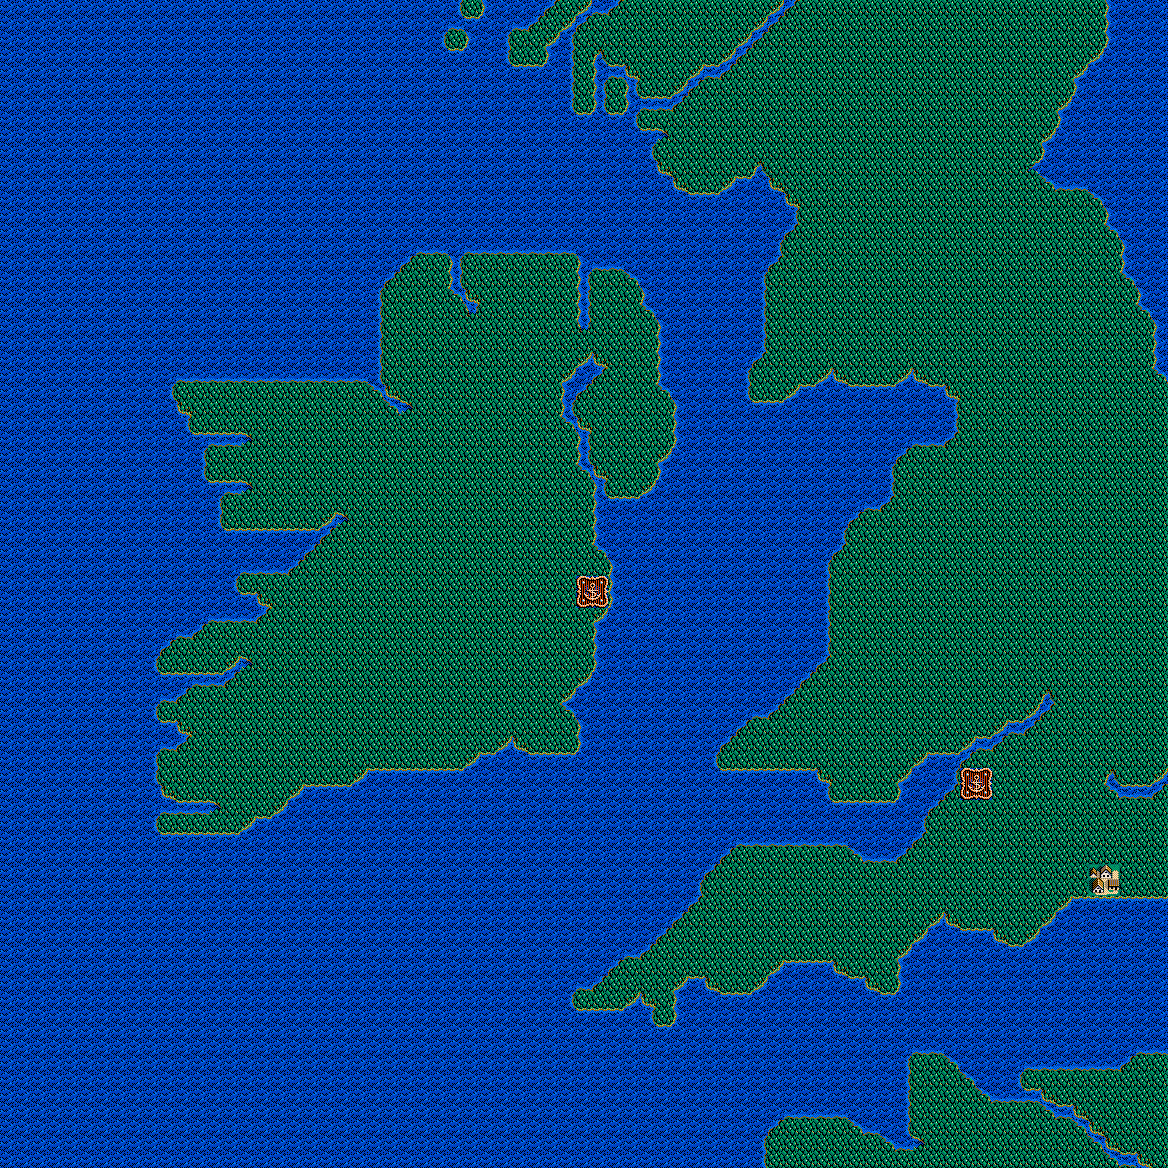
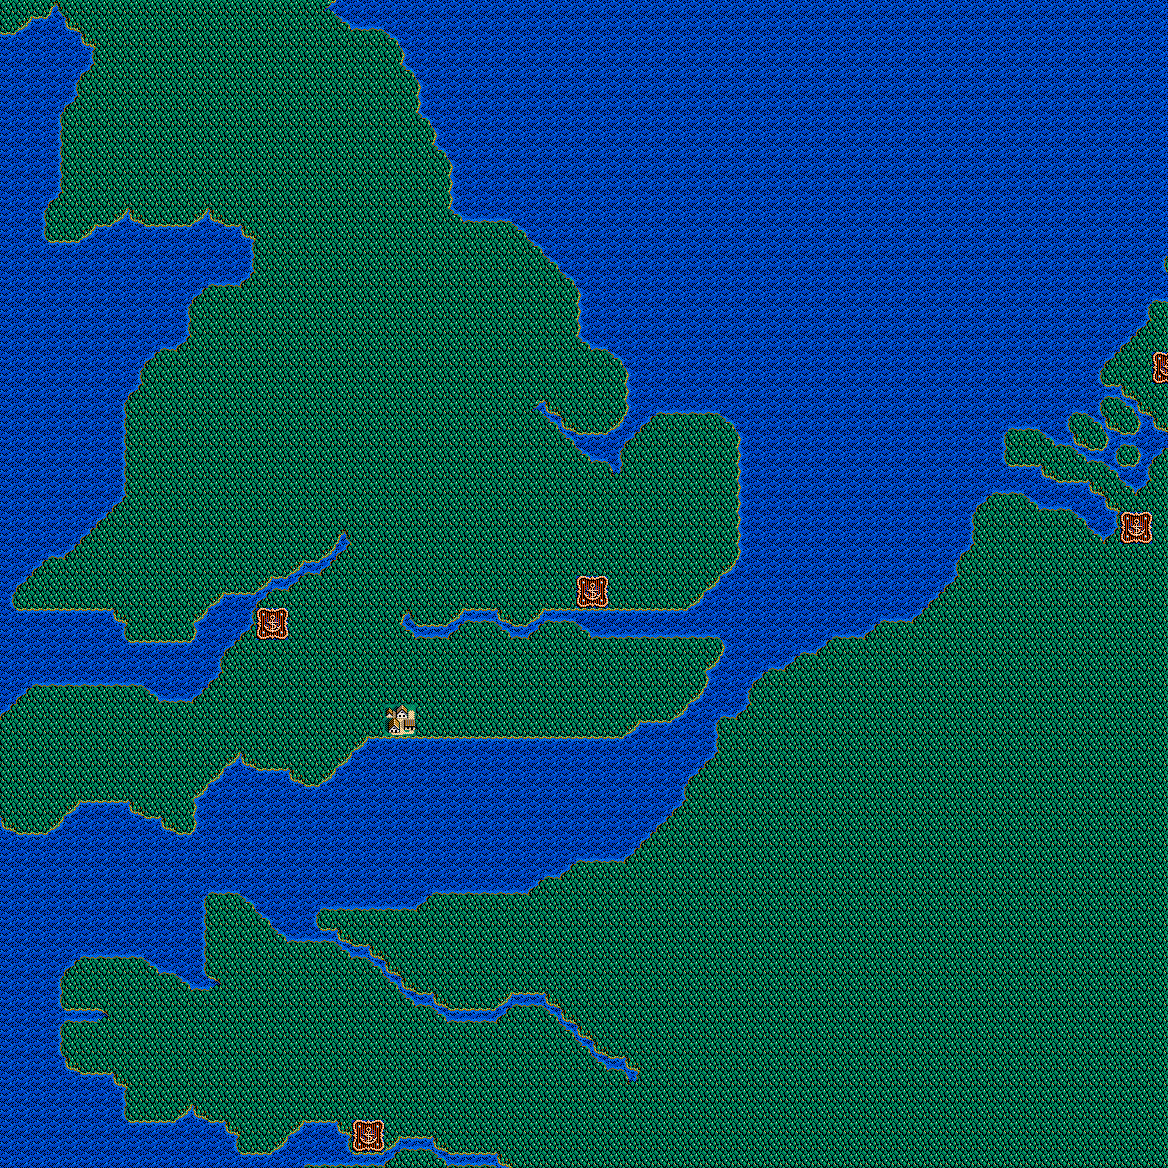
sail to right position (ON)

diff --git a/draw.py b/draw.py
@@ -18,10 +18,24 @@ def draw(self):
 def draw_logged_in_state(self):
     # draw map
     now_map = self.my_role.map
-    if now_map == 'port' or now_map == 'sea':
+
+        # in port
+    if now_map.isdigit():
         x = self.screen_surface_rect.centerx - self.my_role.x
         y = self.screen_surface_rect.centery - self.my_role.y
-        self.screen_surface.blit(self.images[now_map], (x, y))
+        self.screen_surface.blit(self.images['port'], (x, y))
+
+        # at sea
+    elif now_map == 'sea':
+        x = -(c.PARTIAL_WORLD_MAP_TILES_IN_ONE_DIRECTION * c.PIXELS_COVERED_EACH_MOVE
+              - self.screen_surface_rect.centerx + self.my_role.x - 900*16)
+        y = -(c.PARTIAL_WORLD_MAP_TILES_IN_ONE_DIRECTION * c.PIXELS_COVERED_EACH_MOVE
+              - self.screen_surface_rect.centery + self.my_role.y - 262*16)
+        print(x, y)
+
+        self.screen_surface.blit(self.images['sea'], (x, y))
+
+        # in battle
     else:
         self.screen_surface.blit(self.images['battle'], (0, 0))
 
@@ -44,7 +58,7 @@ def draw_logged_in_state(self):
 
         # not in building
     else:
-        if now_map == 'port':
+        if now_map.isdigit():
             draw_in_port(self)
             draw_hud(self)
         elif now_map == 'sea':

diff --git a/role.py b/role.py
@@ -34,7 +34,7 @@ class Role:
         self.person_frame = -1
         self.name = name
         self.enemy_name = None
-        self.map = 'port'
+        self.map = '29'
         self.in_building_type = None
         self.battle_timer = 0
         self.your_turn_in_battle = True
@@ -87,7 +87,7 @@ class Role:
             # timer.start()
 
         # if to port
-        elif map_name == 'port':
+        elif map_name.isdigit():
             pass
 
     def _check_days_at_sea_timer(self):
@@ -100,7 +100,7 @@ class Role:
                 print('your fleet starved to death!')
                 break
 
-            if self.map == 'port':
+            if self.map.isdigit():
                 break
 
     def _count_max_days_at_sea(self):
@@ -544,6 +544,7 @@ class Player:
 
 if __name__ == '__main__':
     role = Role(5, 5, 'test_name')
-    for i in range(10):
-        print(i)
-        role.discover([0])
+    a = {}
+    print(type(role.map))
+    a[role.map] = 123
+    print(a)

diff --git a/server_1.py b/server_1.py
@@ -5,6 +5,7 @@ from protocol import MyProtocol
 from DBmanager import Database
 from role import Role
 import constants as c
+from hashes.hash_ports_meta_data import hash_ports_meta_data
 
 import os
 import sys
@@ -113,8 +114,10 @@ class Echo(Protocol):
             now_map = self.my_role.map
             target_map = message_obj[0]
 
-            # change my map
+            # change my map and position
             self.my_role.map = target_map
+            self.my_role.x = hash_ports_meta_data[int(now_map) +1]['x'] * c.PIXELS_COVERED_EACH_MOVE
+            self.my_role.y = hash_ports_meta_data[int(now_map) +1]['y'] * c.PIXELS_COVERED_EACH_MOVE
 
             # change users() state
             del self.factory.users[now_map][self.my_role.name]
@@ -323,6 +326,8 @@ class Echo(Protocol):
 class EchoFactory(Factory):
     def __init__(self):
         self.users = {
+            '33':{},
+            '29':{},
             'port':{},
             'sea':{},
         }

diff --git a/map_maker.py b/map_maker.py
@@ -125,9 +125,10 @@ class MapMaker():
             can be used after setting world_map_tiles and world_map_piddle.
         """
         # sea image with size 73 * 73
-        COLUMNS = ROWS = 73
+        COLUMNS = ROWS = c.PARTIAL_WORLD_MAP_TILES
         sea_img = Image.new('RGB', (COLUMNS * c.PIXELS_COVERED_EACH_MOVE, ROWS * c.PIXELS_COVERED_EACH_MOVE), 'red')
-        sea_piddle = self.world_map_piddle[y_tile-36:y_tile+36+1, x_tile-36:x_tile+36+1]
+        HALF_TILES = c.PARTIAL_WORLD_MAP_TILES_IN_ONE_DIRECTION
+        sea_piddle = self.world_map_piddle[y_tile-HALF_TILES:y_tile+HALF_TILES+1, x_tile-HALF_TILES:x_tile+HALF_TILES+1]
         print(sea_piddle.shape)
 
         # small piddle to image
@@ -157,5 +158,5 @@ if __name__ == '__main__':
     map_maker = MapMaker()
     map_maker.set_world_map_tiles()
     map_maker.set_world_piddle()
-    map_maker.make_partial_world_map(856, 252)
+    map_maker.make_partial_world_map(900, 262)
 

diff --git a/game.py b/game.py
@@ -64,7 +64,7 @@ class Game():
     def load_assets(self):
         # maps
             # port
-        self.port_piddle, self.images['port']  = self.map_maker.make_port_piddle_and_map(29)
+        # self.port_piddle, self.images['port']  = self.map_maker.make_port_piddle_and_map(29)
             # partial_world_map
         self.map_maker.set_world_map_tiles()
         self.map_maker.set_world_piddle()
@@ -142,8 +142,10 @@ class Game():
         if self.my_role:
             # my role
             my_role = self.my_role
-            if my_role.moving and my_role.can_move(my_role.direction):
+            if my_role.moving:
                 my_role.move([my_role.direction])
+            # if my_role.moving and my_role.can_move(my_role.direction):
+            #     my_role.move([my_role.direction])
 
             # other roles
             for role in self.other_roles.values():

diff --git a/client_packet_received.py b/client_packet_received.py
@@ -9,6 +9,10 @@ def process_packet(self, pck_type, message_obj):
         self.my_role = my_role
         print("my role's x y:", my_role.x, my_role.y, my_role.map, my_role.name)
 
+        if my_role.map.isdigit():
+            port_index = int(my_role.map)
+            self.port_piddle, self.images['port'] = self.map_maker.make_port_piddle_and_map(port_index)
+
         # other roles
         other_roles = message_obj[1]
         for role in other_roles:

diff --git a/gui.py b/gui.py
@@ -274,7 +274,7 @@ class ButtonClickHandler():
         self.make_menu(dict)
 
     def port(self):
-        if self.game.my_role.map == 'port':
+        if self.game.my_role.map.isdigit():
             dict = {
                 'Market': self.menu_click_handler.port.on_menu_click_market,
                 'Bar': self.menu_click_handler.port.on_menu_click_bar,

diff --git a/constants.py b/constants.py
@@ -50,4 +50,5 @@ PERSON_SIZE_IN_PIXEL = 32
 
 # map data
 WALKABLE_TILES = SAILABLE_TILES = set(range(1, 32))
-
+PARTIAL_WORLD_MAP_TILES = 73
+PARTIAL_WORLD_MAP_TILES_IN_ONE_DIRECTION = 36

diff --git a/test.py b/test.py
@@ -1,2 +1,6 @@
-a = str(12).zfill(3)
+a = {
+    '2': 2
+}
+print(a['2'])
+a['3'] = 4
 print(a)
